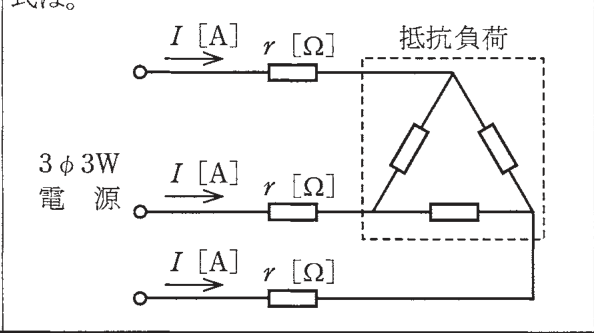
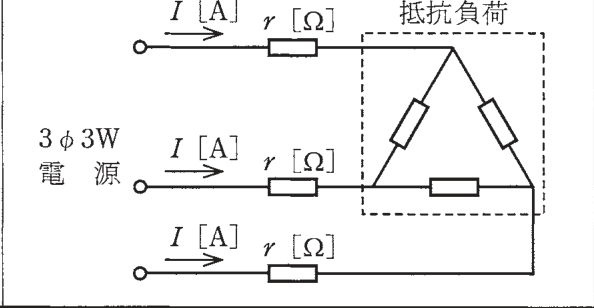
data(denko2): 検証工程の修正を取り込み（2020下期午前・午後、2025下期）
図の切り直しと解説の訂正。3回とも公式解答と全問一致、validate エラー0を維持。

Claude-Session: https://claude.ai/code/session_01Psimx3sx2FvU1P2J8AT6MJ

diff --git a/data/review/denko2/denko2-2025-下期.md b/data/review/denko2/denko2-2025-下期.md
@@ -72,3 +72,67 @@
 - `choicesFigure` を付けた問で `choices` に「写真イ／写真ロ…」と書くか内容を書くかの判断が、問によって微妙になる。`docs/DATA_FORMAT.md` の表に「**選択肢の写真から属性（本数・種類・刻印・極配置）が読み取れて、それを言葉にしても答えが決まらないなら内容を書く**」という一文があると迷いが減る
 - 計算問題の丸めに、実試験で使う **7 捨 8 入**（許容電流）を `round` の代わりに指定できるオプション（例 `"rounding": "7sute8nyu"`）があると、`Math.floor(x + 0.2)` のような小細工を式に混ぜずに済む
 - 配線図問題の解説では「①はどこの何を指しているか」を書く必要があるが、これは図面ごとに固有で使い回せない。`sharedFigure` を持つ問に、図面の概要（階数・電源方式・分岐回路の一覧）を 1 か所だけ書ける欄（例 `subject.json` の回ごとのメモ）があると、50 問ぶんの記述の重複が減る
+
+## 検証（第2工程）
+
+### 機械的チェック
+
+- `python3 scripts/check_answers.py denko2-2025-下期` → 50 問・欠番なし・不一致なし（修正前後とも）
+- `npx tsx scripts/validate-data.ts --exam denko2-2025-下期` → errors 0 / warnings 0（修正前後とも）
+- 分野分布 1:6 2:4 3:7 4:5 5:4 6:20 7:3 相当（実際は 1:6 2:4 3:8 4:5 5:4 6:20 7:3）。実試験の目安（1:5 2:6 3:7 4:6 5:4 6:19 7:3）との差は最大2問で、**出題ブロック（問1-6 電気理論／問7-10 配電理論・配線設計／問11-18 材料・工具／問19-23 施工方法／問24-27 検査／問28-30 法令／問31-50 配線図）にそのまま対応している**ので分類は変更しなかった
+- `whyOthersWrong` の空要素位置は全50問で正答位置と一致。`**` の対応も全問で閉じている
+
+### 確認した問（50問すべて＋画像照合33問）
+
+- **全50問**について `questions_raw.json` の `stemText`/`choicesText` と JSON の `stem`/`choices` を突き合わせた。Ω→W の化けは全箇所（問1・2・5・6・7・39・40）で Ω に直っており、φ・mm²・「不適切」「誤っている」「適切」の否定条件・「ただし」書きの取りこぼしはなかった
+- **選択肢画像との並び順照合**（`cells/qNN_choices.png` を Read）— 問2・4・10・23・41・45・46・47。`choicesText` の抽出順は視覚順と一致しない（PDF のテキスト順）ため、**画像で イロハニ の並びを直接確認した。8問すべて JSON と一致**していた。特に問46（刻印の組合せ）は抽出テキストだけ見ると JSON と入れ替わって見えるが、画像では JSON が正しい
+- **図（`figures/denko2-2025-下期/`）を Read で目視** — 問1・4・5・6・7・9・16・17・18・27。いずれも問題を解くのに必要な情報（抵抗値・電流・電圧・端子記号・写真の特徴）が欠けずに入っている
+- **配線図面**は元PDFを6倍に拡大して ①〜⑳ をすべて追跡した（`pymupdf` で描画→PIL で部分拡大）
+- **写真の選択肢**（問41〜50）はすべて拡大して個別に確認した
+
+### 見つけた誤りと直した内容
+
+1. **問15 `supplement`（法令の誤り）** — 「一般用電気工作物に含まれる小出力発電設備は太陽電池発電で出力50 kW未満」は2023年3月20日施行の改正後は誤り。10 kW以上50 kW未満は小規模事業用電気工作物（事業用）に移ったので、**一般用電気工作物に残る太陽電池発電設備は10 kW未満**。直前の文で改正に触れながら結論が矛盾していた。書き換えた
+2. **問11 `supplement`（数値基準の誤り）** — 「2種金属製線ぴは幅40 mm超50 mm以下、1種は幅40 mm以下」→ 正しくは **1種（メタルモール）が幅40 mm未満、2種（レースウェイ）が幅40 mm以上50 mm以下**。境界がずれていた
+3. **問43 `supplement`（極配置の誤り）** — 「250 V 15 A・20 A＝一方がかぎ形（L字）」は15 Aを含めた点が誤り。**250 V 15 Aは2本が同じ向きにそろうタンデム形、かぎ形（エルバー形）は250 V 20 A**。15 A と 20 A を分けて書き直した
+4. **問21 `supplement`（自己矛盾）** — 「金属管・合成樹脂管＝2 m以下（合成樹脂管は1.5 m以下）」が同じ文中で矛盾。**合成樹脂管＝1.5 m以下**（電技解釈第158条）に整理し、金属管の2 mは内線規程の値なので落とした
+5. **問46 `whyCorrect`（誤記）** — 「接地側（白）＝**3**ボックス側1＋ケ1＋…」の「3」が前文の「3本」から紛れ込んでいた。「ホール側1＋…」に修正
+6. **問33 `supplement`（裏の取れない数値）** — 「ケーブルなら断面積0.5 mm²以上」は電技解釈第181条に該当する記述が見当たらないため削除し、「ケーブルを使うか、直径0.8 mm以上の軟銅線」とした
+7. **問7 `whyOthersWrong`（イ）の導出が不明瞭** — 「104－2×(10×0.2)×2 のように」を「1線ぶんの4倍を引いた値（104－10×0.2×4＝96 V）」に書き換えた
+8. **問1 `whyOthersWrong`（ニ）が作為的**（作成担当の申告8） — 「6 Ω2本を直列12 Ωと見誤る」を、**「上側の3 Ωと6 Ω」「下側の3 Ωと6 Ω」をそれぞれ並列（2 Ω）にして直列に足す**という、実際に起こりやすい誤りに差し替えた
+9. **問7 の図に本文が写り込んでいた** — `q07_fig.png` の上端に問題文の最終行「［V］は。」が残っていた。`crop_figure.py --y0 0.29` で切り直し、public 側の既存ファイルを消してから `publish_figures.py` を再実行した
+
+### 作成担当の「自信が持てなかった箇所」の判定
+
+1. **問48 選択肢ニの解釈 → 作成担当の判断が正しい**。選択肢画像を拡大すると、イはランプが接点と**並列**（＝位置表示灯内蔵・ほたる・傍記H）、ロは「遅れ機構」付き（傍記D）、ハは端子0で1/3に切り替わる3路、ニは端子0→接点→1でランプが**1と3の間**（＝確認表示灯内蔵・パイロット・傍記L）。さらに**図面ページのテキストを PyMuPDF で全語抽出したところ、`L` が3個（洗面所ス・浴室ソ・2階ニ）、`D` が1個（玄関）、`3` が3路スイッチぶん、`H` は0個**だった。図面に傍記Hが皆無であることが機械的に確定したので、公式解答イ（＝ほたるスイッチが未使用）と完全に整合する
+2. **問48 選択肢ロの傍記D** — `D` の座標は (170, 271)＝玄関の点滅器群ク・ケ・コの左。どのスイッチに掛かるかは図面上も判別しにくいが、**Dが図面に存在することは確定**しており解答には影響しない
+3. **問43 の極配置** — 写真ハは拡大すると「上が棒・下がかぎ形＋D形の接地極穴」で250 V 20 A接地極付、写真ロは「刃受3つ＋接地極、刻印 20A 250V」の三相200 V用。⑬の傍記が「20A 250V E」でⓝ回路（凡例に「ⓝ印は単相200V回路」）なので、単相のハが正解。**説明は正しい**。ただし上の3.のとおり `supplement` の15 Aの記述だけ直した
+4. **問31 の根拠条文 → 妥当**。①の矢印はWhの直後から右へ延び、建物右外壁を通って分電盤（黒い三角）に至る破線を指している＝屋側配線。**電技解釈第110条（低圧屋側電線路の施設）は実在し**、施設できる工事は「がいし引き（展開した場所）／合成樹脂管／金属管（木造以外）／バスダクト（木造以外）／ケーブル」で、説明文と一致する。修正不要
+5. **問49 選択肢ロののこぎり** — 木の柄・細かい刃の写真。VE管用かボード用かは写真からは断定できないが、【注意】1で屋内配線はVVFケーブル工事と明記され、2階に管工事がないことは確定なので**結論（ロが不使用）は動かない**。記述はそのままにした
+6. **問50 選択肢ニ** — 灰色樹脂製で片端に六角の座、VE管用の接続材料であることは確かだが型式名は断定できない。現状の記述（断定しない）のままでよい
+7. **問11 の条番号 → 実在を確認**。電技解釈**第161条＝金属線ぴ工事**、「電線は絶縁電線（屋外用ビニル絶縁電線を除く）」「線ぴ内に接続点を設けない」も条文どおり
+8. **問1 の誤答理由** — 上記8.のとおり差し替えた
+
+### 図面から解答を自力で再導出した問（すべて公式解答と一致）
+
+- **問37（⑦の心線数）** — ⑦は2階洋室のVVF用ジョイントボックス⑪から◆2個（ノ・ハ）へ向かう区間。非接地側1＋帰り線2＝**3本**（ロ）
+- **問41（⑪の差込形コネクタ）** — ⑪に入るのは 電源（下の⑫アウトレットボックスから）2本／DLハ 2本／照明ノ 2本／点滅器ノ・ハ 3本の4本。白3・黒2・ハ帰り2・ノ帰り2 → **2本用3個＋3本用1個**（ハ）。写真の赤=2穴、青=3穴、黄=4穴も拡大して確認した
+- **問45（⑮の心線数）** — ⑮はホール⑰と玄関⑯を結ぶ区間。白・黒・コの帰り線の**3心1本**（ロ）。玄関のDLコとホールのCLコが同じ点滅器コで点くので帰り線が渡る
+- **問46（⑯のリングスリーブ）** — ⑯（玄関）に入るのは ホール側3本／ケ 2本／ク 2本／DLコ 2本／点滅器ク・ケ・コ 4本。**ケとクは⑯から別々の2心で出ている**ことを拡大して確認（横方向の太線が2本平行に走っている）。白4・黒2・ク帰り2・ケ帰り2・コ帰り3 → **小5個、刻印 小2・〇3**（イ）
+- **問47（⑰のリングスリーブ）** — ⑰（ホール、ⓒ回路）に入るのは 電源2本（ⓒの矢印が分電盤へ）／玄関側3本／ホールの2口コンセント2本／CLコ 2本／階段下ボックス2本。白5・黒4・コ帰り2 → **中1個＋小2個**（ニ）
+- **問31・32・33・34・35・36・38・39・40・42・43・44・48・49・50** も図面上の位置・傍記（ET、EET、VE28、EM-CE、円に斜線、□、◆、ⓝ 200V 2P20A、接地記号、20A250V E）を1か所ずつ拡大して確認した
+
+### 計算問題（calc）
+
+`allValidCalcs` で全組合せを展開して確認した。
+
+- **問3** — 9通り。元問題 (m=60, dT=20) は答え1.4、選択肢 [1.0, 1.2, 1.4, 1.6] で**実試験と完全一致**。他の組合せも 0.7〜3.5 kW·h と実試験らしい範囲で、誤答は0.2刻み
+- **問8** — 16通り。元問題 (d=2.0, n=4) は 35×0.63＝22.05 → 7捨8入で **22 A**（公式解答と一致）。1.6/2.0/2.6/3.2 mm × 3〜6本すべてを手計算と突き合わせ、**2.0 mm 3本＝24 A（24.5 の7捨8入）、2.6 mm 5本＝27 A（26.88 の切り上げ）** など境界も正しく出ることを確認した。`Math.floor(x + 0.2)` は「小数第1位が8以上のときだけ繰り上げ」を正しく実装している
+- 図に数値が描かれている問（1・5・6・7・9）が static のままであることも確認した
+
+### 残っている懸念
+
+- **内線規程の節番号は未検証**。有料規格で一次情報にあたれなかった。この回で使っているのは 1335節（電線相互の接続）・1340節（電線の許容電流）・3102節（屋内配線の施設）・3110節（金属管配線）・3110-6（電磁的平衡）・3202節（コンセント）・3605節（分電盤）・3705節（引込線）で、いずれも既存回と同じ表記に揃っている。ただし**コーパス全体を見ると `3110-6` が「電磁的平衡」と「管相互及び管とボックスとの接続」の両方に使われており、どちらかは誤り**。全回まとめての棚卸しが要る（この回だけ直すと不整合になるので触っていない）
+- **配線図の【注意】書きが `sharedFigure`（p15）に含まれていない**。問40は【注意】3「漏電遮断器は定格感度電流30 mA、動作時間0.1秒以内」を前提に500 Ωを選ぶ問題で、問49・50は【注意】1「屋内配線はVVFを用いたケーブル工事」を前提にしている。解説には書いてあるが、図面だけでは前提が読めない。**既存回（2024-下期・2025-上期ほか）もすべて同じ状態**なので、この回だけ変えず据え置いた。仕様として「回ごとの【注意】を1か所に持つ欄」を用意するのが筋
+- **問49 のこぎり／問50 選択肢ニの型式**は写真から断定できないまま（いずれも結論には影響しない）
+- 電技解釈の条番号（12・14・17・29・110・143・146・149・156・158・159・160・161・164・165・181・200）と電技省令（1・2・4・58）、JIS（C 0303・C 1102・C 1304・C 2806・C 3342・C 3605・C 3612・C 8303・C 8340・C 8430）は内容との対応を確認済み。うち第110条・第161条・第181条・第200条は外部資料で裏を取った

diff --git a/data/review/denko2/denko2-2020-下期-午前.md b/data/review/denko2/denko2-2020-下期-午前.md
@@ -106,3 +106,85 @@
    浮動小数点誤差を毎回 `Math.abs(answer - Math.round(answer)) < 1e-6` と書かずに済む。
 4. `crop_figure.py` に `--from choices` で「左端の問い欄をどこで切るか」を自動推定するオプション
    （縦の罫線を検出する）があると、セル分割が崩れた回の作業が速くなる。
+
+---
+
+## 検証（第2工程）
+
+作成担当のデータを疑う立場で、**全50問を `cells/qNN_row.png` と原本PDF（400 dpi再レンダリング）で1問ずつ照合**した。
+配線図（15頁）は①〜⑱の指示先を、指示線の傾きを実測して番号と対応付けたうえで部分拡大して確認した。
+
+### 機械チェック（修正前・修正後とも通過）
+
+- `check_answers.py`: 50問・欠番なし・不一致なし
+- `validate-data.ts --exam`: errors 0 / warnings 0
+- `allValidCalcs`: 問2＝10通り、問3＝23通り、問8＝16通り。生成される選択肢はいずれも実試験らしい値域
+  （例 問8: `{S:2,A:27,N:3,k:0.7}` → 19 A、選択肢 14/17/19/27）。`Math.floor(A*k+0.2)` は 7捨8入と一致することを確認。
+- 分野内訳 1:5 2:6 3:7 4:5 5:4 6:20 7:3。他26回もすべて問31〜50を分野6に入れており、この回だけの逸脱ではないので変更しない。
+
+### 転記の忠実さ（A）
+
+**50問すべてで stem・choices・「ただし」書き・否定条件（不適切／誤っている／使用されていない）・単位（Ω, mm², kW·h, MΩ, 10⁵）に誤りなし。**
+選択肢が図や写真の問（問10・24・29・41〜50）も、文章化された内容が画像と一致していることを確認した。
+特に確認した点:
+
+- 問3「0.2 Ω／15 A／1時間／〔kJ〕」、問8「5.5 mm²／4本／0.63」、問15「30 A／37.5 A」、問26「0.1秒」は原文どおり。Ω→W の取り違えなし。
+- 問4・問5の式（√3 の位置、10⁵）、問6の選択肢（√3I²r／3Ir／3I²r／√3Ir）は画像と完全一致。
+- 問41〜50の選択肢画像の読み取り（ケーブル心線数、スリーブの刻印、コネクタの色＝極数、遮断器の極数とテストボタンの有無、コンセントの接地極／接地端子）はすべて画像どおり。
+
+### 図の妥当性（B）
+
+- 参照している図（問1・4・6・7・9・16・17・18・27）と選択肢画像（問41〜50）、配線図 `p15.png` をすべて Read で開き、
+  **切れ・不足はなし。図だけで解けることを確認**した。
+- ただし問1・4・6・18の切り出しに前の行の文字（「式は。」など）が写り込んでいたので、
+  `crop_figure.py` で切り直して `publish_figures.py` を再実行した（問4 `--y0 0.355`、問6 `--y0 0.445`、問18 `--y0 0.135`、問1 `--y0 0.235`）。
+  問1の「は。」は図と同じ行にあるため縦方向の切り直しでは除けない（図を欠かずに消せないので残した）。
+
+### 見つけた誤りと修正（C）
+
+| 問 | 箇所 | 内容 |
+|---|---|---|
+| 15 | whyCorrect / whyOthersWrong 0・1・3 / supplement | **法令数値の誤り。** 配線用遮断器の動作時間の区分を「100 A以下＝60分・2分／100 A超＝120分・4分」と書いていたが、電技解釈 33-2表は **30 A以下＝60分・2分／30 A超50 A以下＝60分・4分／50 A超100 A以下＝120分・6分**。選択肢2分・4分・120分の説明がすべて別の区分になっていたので書き直した（正答60分は変わらず）。日本電気技術者協会の解説で表全体を確認。 |
+| 22 | whyOthersWrong 2 / supplement | **法令要件の誤り。** 機械器具の鉄台の接地省略を「300 V以下＋乾燥した場所」としていたが、電技解釈 第29条第2項第一号は **交流の対地電圧150 V以下（直流は使用電圧300 V以下）＋乾燥した場所**。 |
+| 7 | whyOthersWrong 2・3 | **算数が選択肢の値と合っていない。** 135 W を「3I²r で計算した値」としていたが 3×15²×0.1＝67.5 W で135にならない。90 W＝中性線に30 Aが流れるとした 30²×0.1、135 W＝45＋90 と、実際に選択肢の値が出る誤り方に直した。 |
+| 43 | whyOthersWrong 3 | **図と食い違い。** 接地側4本の内訳を「照明2灯・コンセント系統・隣のボックス」としていたが、⑬のボックスにつながるのは CL「カ」・DL「オ」・「キ」の**照明3灯＋隣のボックス**。コンセントは別回路。 |
+| 17 | supplement | 誤字「電流調整つまり」→「電流調整つまみ」。あわせて「**上部に**電流調整つまみが見えたら熱動継電器」としていたが、この写真の熱動継電器は**下半分**（whyCorrect と矛盾していた）。 |
+| 1 | whyOthersWrong 1 | 8 Ω の作り方を「右端の4 Ωを数え落とすと 2＋2＋4＝8」としていたが、1本落としても4 Ωは2本残る。「並列の4 Ωを1本しか数えない」に直した。 |
+| 9 | whyOthersWrong 3 | 255 A を「3I_M＋I_H に**近い**数字」としていたが 3×80＋15＝255 でそのもの。 |
+| 25 | whyOthersWrong 3 | 「一括測定で1 MΩ以上あれば」という根拠不明の値を、一括値＝各回路の並列合成なので基準を満たせば個々も満たす、という理屈に置き換えた。 |
+| 42 | supplement | 中スリーブの組合せに **2.0 mm 2本＋1.6 mm 1〜3本** を追加（問48がまさにこの形なのに表から抜けていた）。 |
+| 44 | whyOthersWrong 0 | 選択肢イを「位置表示灯内蔵または確認表示灯内蔵形」とぼかしていたが、接点図を拡大すると**0・1・3の3端子＋1番と3番の間にランプ**で、位置表示灯内蔵の3路スイッチと確定できる。図記号に H の傍記がないので⑭ではない、という筋に書き直した。 |
+| 48 | whyCorrect | VVF2.0 の傍記の位置を400 dpiで確認したところ、**引出線はジョイントボックスそのものから出ており、ボックスを左右に貫く配線（分電盤側・台所側の両方）に掛かっている**。「台所方面へ送るVVF2.0」を公式解答からの逆算ではなく図面の根拠として書けるよう説明を直した。 |
+
+### 作成担当が挙げた「自信が持てなかった箇所」の検証結果
+
+1. **問48（⑱の電線の太さ）** — 解消。400 dpi で見ると ⑱ のジョイントボックスから出る引出線は「VVF2.0 →(b)」で、
+   ボックスを貫く水平配線（分電盤側と台所側）を指している。台所側が1.6だと 黒＝2.0×1＋1.6×2＝小 となり
+   公式解答（中2・小2）と合わないことも確認済み。whyCorrect をその根拠で書き直した。
+2. **問50 選択肢ロの部品** — 拡大確認。手前側が管用のめねじ、反対側にねじ首＋リング（ロックナット）で、
+   **ねじ切り鋼製電線管用のボックスコネクタ**で間違いない。解説はそのまま。
+3. **問44 選択肢イ** — 拡大確認して確定（上表のとおり修正）。
+4. **問41（⑪の3心）** — ⑪は2階側の立上りを指している。図面11頁の【注意】7「3路スイッチの記号「0」の端子には，
+   電源側又は負荷側の電線を結線する」から、1階3路の0端子＝電源側、2階3路の0端子＝階段灯側。
+   立上りは 1・3端子間の渡り線2本＋2階の灯へ送る接地側1本＝**3心**で、公式解答（ロ）と整合する。解説の説明で正しい。
+5. **問40（⑩）** — 11頁冒頭「木造2階建住宅及び車庫の配線図」を原本で確認。電技解釈 第110条で金属管・バスダクトは木造以外に限られる。解説どおり。
+6. **問36（⑥の500 Ω）** — 11頁【注意】3「漏電遮断器は，定格感度電流30 mA，動作時間0.1秒以内のものを使用している」を原本で確認。
+   解説内にこの注意書きを明記してあるので、アプリ上でも解説を読めば根拠がたどれる。
+
+### 誤りが無いことを確認した主な数値・条番号
+
+絶縁抵抗 0.1/0.2/0.4 MΩ（問25・35）、D種100 Ω・漏電遮断器0.5秒で500 Ω（問26・36）、接地線 軟銅線1.6 mm以上（問26）、
+許容電流 27/35/48 A・2/3.5/5.5/8 mm²＝27/37/49/61 A・減少係数0.70/0.63/0.56/0.49（問8）、コード 0.75/1.25/2 mm²＝7/12/17 A（問12）、
+幹線 1.25倍・1.1倍（問9）、分岐回路 15/20/30/40/50 A の電線とコンセント（問10）、合成樹脂管の支持点間1.5 m・差込み深さ1.2倍（接着剤0.8倍）・曲げ半径6倍（問23）、
+金属線ぴのD種省略 4 m／150 V以下8 m（問20・22）、小勢力回路 0.8 mm・60 V（問33）、引込口開閉器の省略 15 A・15 m（問38）、
+第29条・33条・110条・120条・143条・146条・147条・148条・149条・156条・158条・159条・161条・162条・165条・181条、
+電技省令58条、電気工事士法1条、電気事業法38条、電気用品安全法施行令 別表第一 — いずれも実在し内容と対応している。
+
+### 残っている懸念
+
+- 問1の図に前行の「は。」が2文字だけ残る（図と同じ行にあり、縦の切り直しでは除去できない）。読解の妨げにはならない。
+- 問41の「2階側ジョイントボックスの接地側をどこから取るか」は依然として図面から一意には読めないが、
+  公式解答（3心1本）と【注意】7に整合する説明になっているので実害はない。
+- 配線図20問の【注意】書き（VVFによるケーブル工事／漏電遮断器30 mA・0.1秒／分電盤の外箱は合成樹脂製／
+  ジョイントボックスを経由する電線はすべて接続箇所を設けている／3路スイッチの0端子）は 11頁にあり `p15.png` には写っていない。
+  作成担当の提案どおり `sharedFigureNote` のような仕組みがあるとよい（この回では該当する問の解説内に書いてあるので当面は解ける）。
